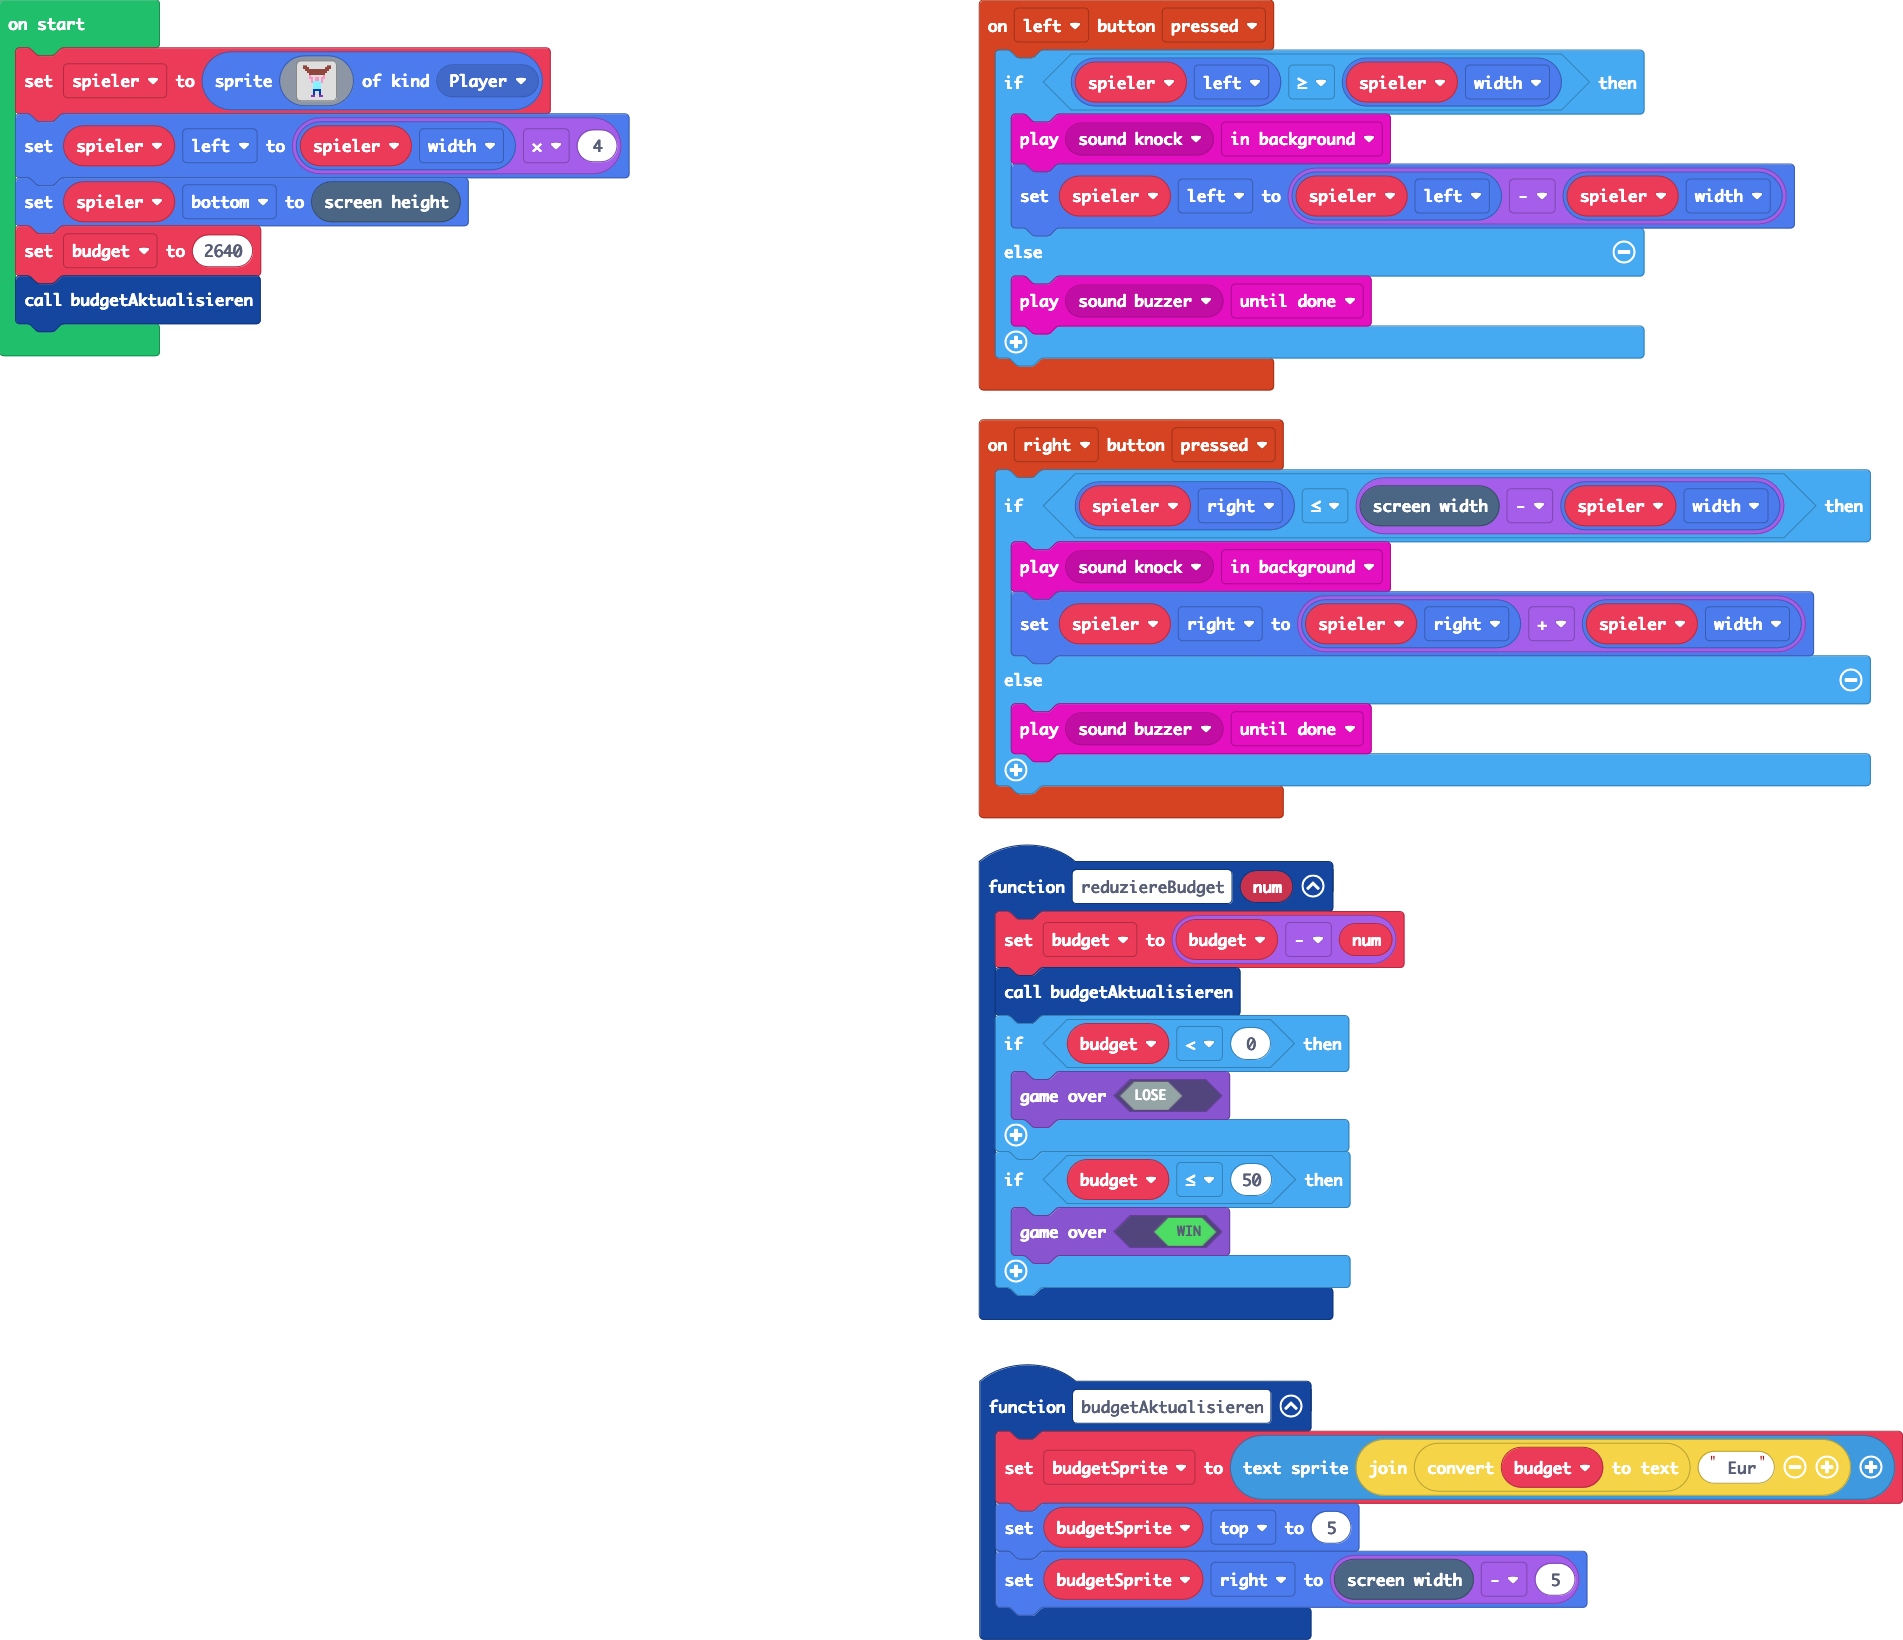
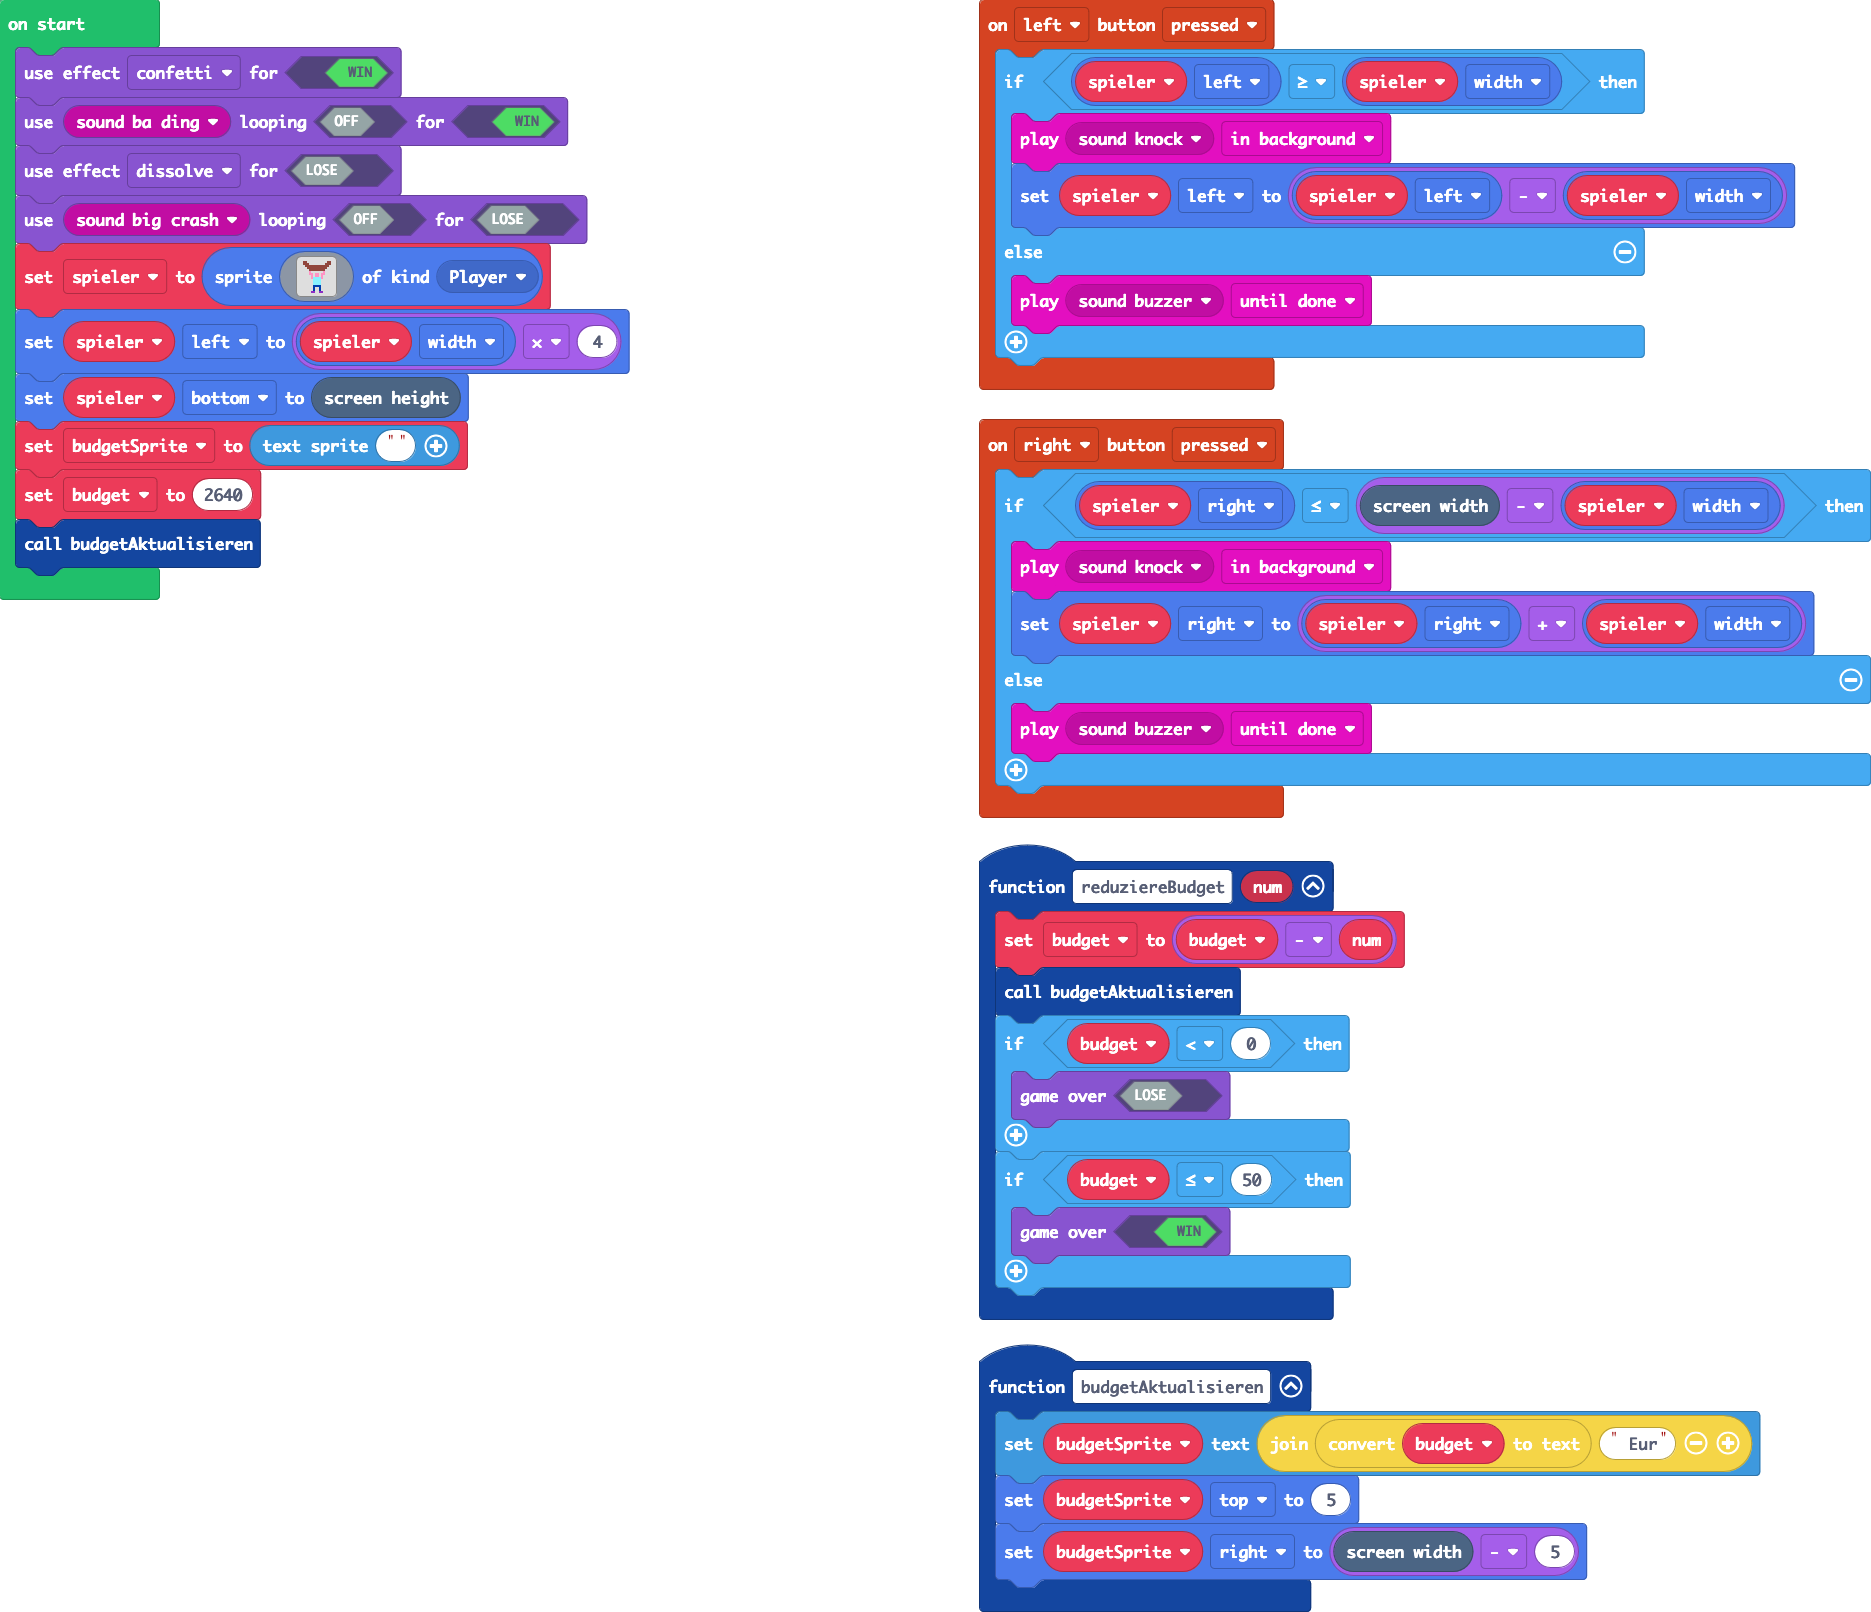
add assets

Changed region(s): [[0.496, 0.0, 1.0, 1.0], [0.0, 0.0, 0.341, 0.3722]]

diff --git a/images.g.ts b/images.g.ts
@@ -22,6 +22,101 @@ namespace myImages {
 . . . . . . 8 . . 8 . . . . . . 
 . . . . . a a . . a a . . . . . 
 `;
+            case "image2":
+            case "sparen":return img`
+. . . . . . . . . . . . . . . . 
+. . . . . . . . . . . . . . . . 
+. . . . . . . 5 5 5 . . . . . . 
+. . . . . . . 5 5 5 . . . . . . 
+. . . . . . . 5 5 5 . . . . . . 
+. . . . . . . . . . . . . . . . 
+. . . . . 3 3 3 3 3 3 3 . . . . 
+. . . 3 3 3 f f f f f 3 3 . . . 
+. . . b 3 3 3 3 3 3 3 3 3 3 . . 
+. . 3 3 3 3 3 3 3 3 3 3 3 3 . . 
+. . 3 3 3 3 3 3 3 3 3 3 3 3 . . 
+. . . 3 3 3 3 3 3 3 3 3 3 . . . 
+. . . 3 3 3 3 3 3 3 3 3 3 . . . 
+. . . . 3 . 3 . . . 3 . 3 . . . 
+. . . . 3 . . . . . 3 . . . . . 
+. . . . . . . . . . . . . . . . 
+`;
+            case "image4":
+            case "pizza":return img`
+. . . . . . . . . . . . . . . . 
+. . . . . . . . . . . . . . . . 
+. . . . . . . . . . . . . . . . 
+. . . . . . . . . . . . . . . . 
+. . . . . . . . . . . . . . . . 
+. . . . . . . . . . . . . . . . 
+. . . . . . . . . . . . . . . . 
+. . . . . . . . . . . 4 4 . . . 
+. . . . . . . . . 4 4 4 4 . . . 
+. . . . . . 4 4 4 2 2 2 2 4 . . 
+. . . 4 4 4 2 7 2 2 2 7 2 4 . . 
+. . 4 e 2 2 2 2 2 2 2 2 2 4 . . 
+. . . . . e 2 2 2 2 7 2 4 . . . 
+. . . . . . . e e e e e e . . . 
+. . . . . . . . . . e e . . . . 
+. . . . . . . . . . . . . . . . 
+`;
+            case "image3":
+            case "miete":return img`
+. . . . . . . . . . . . . . . . 
+. . . . . . . . . . . . . . . . 
+. . . . . . . e e . . . . . . . 
+. . . . e . e e e e . . . . . . 
+. . . . e e e e e e e . . . . . 
+. . . . e e e e e e e e . . . . 
+. . . e e e e e e e e e e . . . 
+. . e e e e e e e e e e e e . . 
+. . . 8 8 8 8 8 8 8 8 8 8 . . . 
+. . . 8 8 8 8 8 8 8 8 8 8 . . . 
+. . . 8 9 9 8 8 8 8 9 9 8 . . . 
+. . . 8 9 9 8 8 8 8 9 9 8 . . . 
+. . . 8 8 8 8 e e 8 8 8 8 . . . 
+. . . 8 8 8 8 e e 8 8 8 8 . . . 
+. . . 8 8 8 8 e e 8 8 8 8 . . . 
+. . . . . . . . . . . . . . . . 
+`;
+            case "image5":
+            case "konsole":return img`
+. . . . . . . . . . . . . . . . 
+. . . . . . . . . . . . . . . . 
+. . . . . . . . . . . . . . . . 
+. . . . . . . . . . . . . . . . 
+. . . . . . . . . . . . . . . . 
+. . . . . . . . . . . . . . . . 
+. . . . b b b b b b b b . . . . 
+. . b b b b b b b b b b b b . . 
+. b b c c b b b b b b c c b b . 
+. b b c c b b b b b b c c b b . 
+. b b b b b b b b b b b b b b . 
+. b c b b b . . . . b b b c b . 
+. b b c b . . . . . . b c b b . 
+. . b b b . . . . . . b b b . . 
+. . . . . . . . . . . . . . . . 
+. . . . . . . . . . . . . . . . 
+`;
+            case "image6":
+            case "socke":return img`
+. . . . . . . . . . . . . . . . 
+. . . . . . . . . . . . . . . . 
+. . . . . . . . . . . . . . . . 
+. . . . . f f f f f f f . . . . 
+. . . . f 1 1 1 1 1 1 1 f . . . 
+. . . . . f 2 2 2 2 2 f . . . . 
+. . . . . . f 2 2 2 f . . . . . 
+. . . . . . f 2 2 2 f . . . . . 
+. . . . . . f 2 2 2 f . . . . . 
+. . . . . . f 2 2 2 1 f . . . . 
+. . . . . f 2 2 2 1 1 f . . . . 
+. . . f f 2 2 2 2 1 f . . . . . 
+. . f 1 2 2 2 2 2 f . . . . . . 
+. . f 1 1 2 f f f . . . . . . . 
+. . . f f f . . . . . . . . . . 
+. . . . . . . . . . . . . . . . 
+`;
         }
         return null;
     })

diff --git a/main.ts b/main.ts
@@ -25,15 +25,20 @@ function reduziereBudget (num: number) {
     }
 }
 function budgetAktualisieren () {
-    budgetSprite = textsprite.create("" + convertToText(budget) + " Eur")
+    budgetSprite.setText("" + convertToText(budget) + " Eur")
     budgetSprite.top = 5
     budgetSprite.right = scene.screenWidth() - 5
 }
-let budgetSprite: TextSprite = null
 let budget = 0
+let budgetSprite: TextSprite = null
 let spieler: Sprite = null
+game.setGameOverEffect(true, effects.confetti)
+game.setGameOverPlayable(true, music.melodyPlayable(music.baDing), false)
+game.setGameOverEffect(false, effects.dissolve)
+game.setGameOverPlayable(false, music.melodyPlayable(music.bigCrash), false)
 spieler = sprites.create(assets.image`spieler`, SpriteKind.Player)
 spieler.left = spieler.width * 4
 spieler.bottom = scene.screenHeight()
+budgetSprite = textsprite.create("")
 budget = 2640
 budgetAktualisieren()
